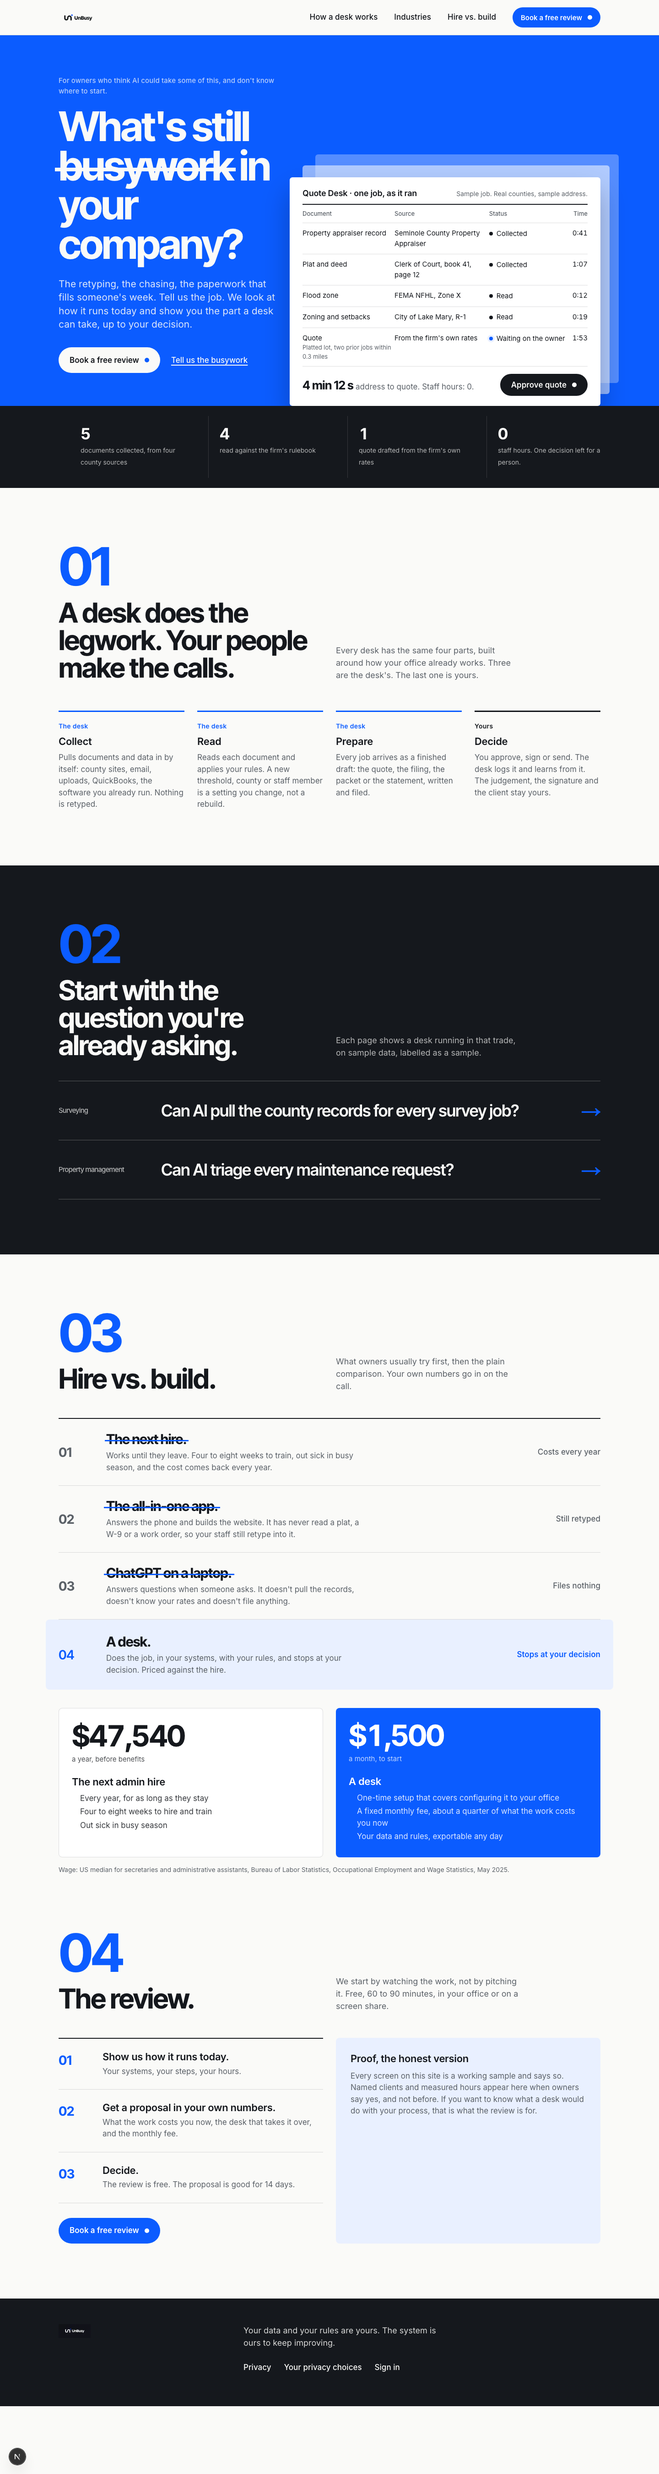
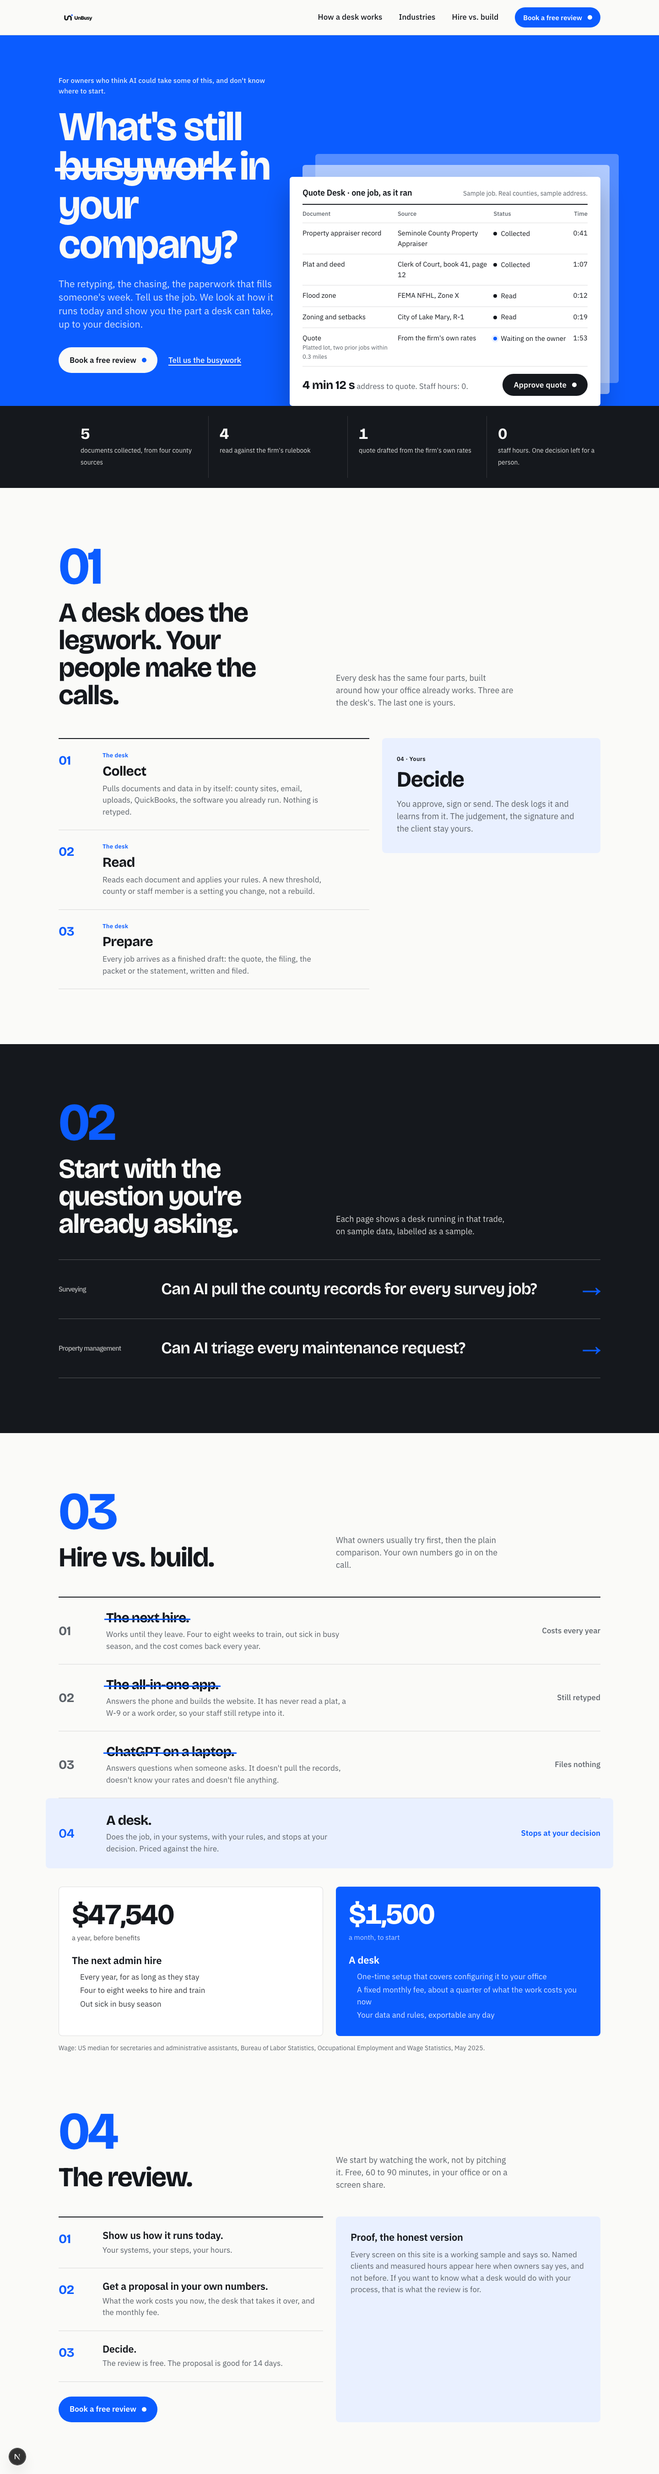
Type, the 3+1 desk layout, and contrast on blue and ink
Bricolage Grotesque for display and IBM Plex Sans for text replace
Inter; "How a desk works" sets the desk's three parts as a ledger with
"Decide" apart on a sky panel; small text on blue and ink goes to 85%+
paper. Mockups and DESIGN.md updated to match.

diff --git a/app/site.css b/app/site.css
@@ -16,7 +16,7 @@
   a { color:inherit; text-decoration:none; }
   .ub p { margin:0; }
   .ub h1, .ub h2, .ub h3 { margin:0; font-family:var(--display); font-weight:700; letter-spacing:-0.03em; }
-  .ub h1 { font-size:clamp(46px,6.2vw,96px); line-height:.96; letter-spacing:-0.04em; }
+  .ub h1 { font-size:clamp(46px,6.2vw,96px); line-height:.96; letter-spacing:-0.025em; font-optical-sizing:auto; }
   .ub h2 { font-size:clamp(34px,4.4vw,60px); line-height:1; }
   .ub h3 { font-size:22px; line-height:1.2; letter-spacing:-0.015em; font-family:var(--body); font-weight:600; }
   .ub .small { font-size:14px; }
@@ -52,7 +52,7 @@
   .ub .hero .grid { align-items:end; }
   .ub .hero .lead { font-size:21px; line-height:1.4; max-width:38ch; margin-top:28px; color:rgba(250,250,248,.88); }
   .ub .hero .actions { display:flex; gap:24px; align-items:center; flex-wrap:wrap; margin:36px 0 72px; }
-  .ub .hero .q { font-weight:500; font-size:15px; letter-spacing:.01em; color:rgba(250,250,248,.72); margin-bottom:24px; }
+  .ub .hero .q { font-weight:500; font-size:15px; letter-spacing:.01em; color:rgba(250,250,248,.92); margin-bottom:24px; }
 
   .ub .stack { position:relative; padding:0 0 0 0; }
   .ub .paper-doc { background:#fff; color:var(--ink); border-radius:6px; box-shadow:0 30px 60px rgba(0,0,0,.25), 0 2px 0 rgba(0,0,0,.08); }
@@ -82,10 +82,10 @@
   .ub .strip div { flex:1 1 160px; padding:22px 24px 22px 0; border-right:1px solid rgba(250,250,248,.14); margin-right:24px; }
   .ub .strip div:last-child { border:0; }
   .ub .strip b { display:block; font-family:var(--display); font-size:34px; font-weight:700; letter-spacing:-0.03em; line-height:1; margin-bottom:6px; }
-  .ub .strip span { font-size:14px; color:rgba(250,250,248,.7); }
+  .ub .strip span { font-size:14px; color:rgba(250,250,248,.88); }
 
   .ub section { padding:120px 0; }
-  .ub .n { font-family:var(--display); font-weight:700; font-size:clamp(64px,8vw,120px); line-height:.9; letter-spacing:-0.05em; color:var(--blue); }
+  .ub .n { font-family:var(--display); font-weight:700; font-size:clamp(64px,8vw,120px); line-height:.9; letter-spacing:-0.04em; color:var(--blue); }
   .ub .sec h2 { margin-top:18px; max-width:14ch; }
   .ub .sec .intro { margin-top:18px; max-width:36ch; color:var(--ink-2); font-size:18px; }
 
@@ -98,11 +98,11 @@
   .ub .part p { margin-top:10px; color:var(--ink-2); }
 
   .ub .dark { background:var(--ink); color:var(--paper); }
-  .ub .dark .intro { color:rgba(250,250,248,.7); }
+  .ub .dark .intro { color:rgba(250,250,248,.85); }
   .ub .qs { border-top:1px solid var(--rule-paper); }
   .ub .qs a { display:grid; grid-template-columns:200px 1fr auto; gap:24px; align-items:center; padding:34px 0; border-bottom:1px solid var(--rule-paper); font-family:var(--display); font-weight:600; font-size:clamp(24px,2.6vw,36px); letter-spacing:-0.025em; transition:padding-left .2s; }
   .ub .qs a:hover { padding-left:12px; }
-  .ub .qs a .t { font:500 15px/1.4 var(--body); color:rgba(250,250,248,.7); }
+  .ub .qs a .t { font:500 15px/1.4 var(--body); color:rgba(250,250,248,.85); }
   .ub .qs a .arrow { color:var(--blue); font-size:40px; font-family:var(--body); }
 
   .ub .ladder { border-top:2px solid var(--ink); }
@@ -154,7 +154,7 @@
 /* inner pages */
 .ub .hero.inner { padding:72px 0 0; }
 .ub .hero.inner h1 { font-size:clamp(40px,5vw,76px); }
-.ub .hero.inner .t { font-weight:500; font-size:15px; color:rgba(250,250,248,.72); margin-bottom:20px; }
+.ub .hero.inner .t { font-weight:500; font-size:15px; color:rgba(250,250,248,.92); margin-bottom:20px; }
 .ub .hero .grid.tight { align-items:end; }
 .ub .hero .pad { padding-bottom:64px; }
 .ub .hero.paper { background:var(--paper); color:var(--ink); padding:88px 0 56px; }
@@ -227,13 +227,13 @@
 .ub .btn:focus-visible { outline-offset:3px; }
 
 /* next/font hands the faces over as variables */
-.ub { --display: var(--font-display), "Inter Tight", "Helvetica Neue", Helvetica, Arial, sans-serif; --body: var(--font-body), Inter, "Helvetica Neue", Helvetica, Arial, sans-serif; }
+.ub { --display: var(--font-display), "Bricolage Grotesque", "Helvetica Neue", Helvetica, Arial, sans-serif; --body: var(--font-body), "IBM Plex Sans", "Helvetica Neue", Helvetica, Arial, sans-serif; }
 
 .ub footer .foot-right { display:flex; justify-content:space-between; gap:28px; flex-wrap:wrap; align-items:start; }
 .ub .source { margin-top:16px; color:var(--ink-2); }
 .ub .review-body { padding-bottom:120px; }
 .ub .q-row { display:grid; grid-template-columns:200px 1fr; gap:24px; align-items:center; padding:34px 0; border-bottom:1px solid var(--rule-paper); font-family:var(--display); font-weight:600; font-size:clamp(22px,2.2vw,30px); letter-spacing:-0.025em; }
-.ub .q-row .t { font:500 15px/1.4 var(--body); color:rgba(250,250,248,.7); }
+.ub .q-row .t { font:500 15px/1.4 var(--body); color:rgba(250,250,248,.85); }
 @media (max-width:980px) { .ub .q-row { grid-template-columns:1fr; gap:8px; } .ub .review-body .side { grid-column:auto !important; } }
 
 /* phones: nothing may force the page wider than the viewport */
@@ -249,3 +249,18 @@
   .ub .ladder .r h3 { font-size:24px; }
   .ub .q-row, .ub .qs a { font-size:20px; }
 }
+
+
+/* How a desk works: the desk's three parts as a ledger, yours set apart */
+.ub .parts-split { display:grid; grid-template-columns:repeat(12,1fr); gap:28px; align-items:start; }
+.ub .ledger-parts { grid-column:1/8; border-top:2px solid var(--ink); }
+.ub .ledger-parts .row { display:grid; grid-template-columns:72px 1fr; gap:24px; padding:26px 0; border-bottom:1px solid var(--rule); }
+.ub .ledger-parts .row .i { font-family:var(--display); font-weight:700; font-size:28px; color:var(--blue); letter-spacing:-0.02em; }
+.ub .ledger-parts .row .k { font-size:13px; font-weight:600; color:var(--blue); letter-spacing:.02em; margin-bottom:6px; }
+.ub .ledger-parts .row h3 { font-family:var(--display); font-size:30px; font-weight:700; letter-spacing:-0.02em; }
+.ub .ledger-parts .row p { margin-top:8px; color:var(--ink-2); max-width:48ch; }
+.ub .yours-panel { grid-column:8/13; background:var(--sky); border-radius:8px; padding:36px 32px 40px; position:sticky; top:104px; }
+.ub .yours-panel .k { font-size:13px; font-weight:600; color:var(--ink); letter-spacing:.02em; }
+.ub .yours-panel h3 { font-family:var(--display); font-size:clamp(34px,3.6vw,48px); font-weight:700; letter-spacing:-0.025em; margin-top:10px; line-height:1; }
+.ub .yours-panel p { margin-top:16px; color:var(--ink-2); font-size:18px; }
+@media (max-width:980px) { .ub .parts-split { grid-template-columns:1fr; } .ub .ledger-parts, .ub .yours-panel { grid-column:auto; } .ub .yours-panel { position:static; } }

diff --git a/docs/brand/site-concept/site.css b/docs/brand/site-concept/site.css
@@ -2,16 +2,16 @@
     --ink:#15181D; --ink-2:#5B6168; --paper:#FAFAF8; --paper-2:#F1F1EE;
     --blue:#0B5CFF; --blue-deep:#0845C2; --sky:#E9F0FF; --sky-2:#D6E3FF;
     --rule:rgba(21,24,29,.14); --rule-paper:rgba(250,250,248,.28);
-    --display:"Inter Tight","Helvetica Neue",Helvetica,Arial,sans-serif;
-    --body:Inter,"Helvetica Neue",Helvetica,Arial,sans-serif;
+    --display:"Bricolage Grotesque","Helvetica Neue",Helvetica,Arial,sans-serif;
+    --body:"IBM Plex Sans","Helvetica Neue",Helvetica,Arial,sans-serif;
   }
   * { box-sizing:border-box; }
   html { scroll-behavior:smooth; }
   body { margin:0; background:var(--paper); color:var(--ink); font:400 17px/1.5 var(--body); -webkit-font-smoothing:antialiased; }
   a { color:inherit; text-decoration:none; }
   p { margin:0; }
-  h1,h2,h3 { margin:0; font-family:var(--display); font-weight:700; letter-spacing:-0.03em; }
-  h1 { font-size:clamp(46px,6.2vw,96px); line-height:.96; letter-spacing:-0.04em; }
+  h1,h2,h3 { margin:0; font-family:var(--display); font-weight:700; letter-spacing:-0.02em; }
+  h1 { font-size:clamp(46px,6.2vw,96px); line-height:.96; letter-spacing:-0.025em; font-optical-sizing:auto; }
   h2 { font-size:clamp(34px,4.4vw,60px); line-height:1; }
   h3 { font-size:22px; line-height:1.2; letter-spacing:-0.015em; font-family:var(--body); font-weight:600; }
   .small { font-size:14px; }
@@ -47,7 +47,7 @@
   .hero .grid { align-items:end; }
   .hero .lead { font-size:21px; line-height:1.4; max-width:38ch; margin-top:28px; color:rgba(250,250,248,.88); }
   .hero .actions { display:flex; gap:24px; align-items:center; flex-wrap:wrap; margin:36px 0 72px; }
-  .hero .q { font-weight:500; font-size:15px; letter-spacing:.01em; color:rgba(250,250,248,.72); margin-bottom:24px; }
+  .hero .q { font-weight:500; font-size:15px; letter-spacing:.01em; color:rgba(250,250,248,.92); margin-bottom:24px; }
 
   .stack { position:relative; padding:0 0 0 0; }
   .paper-doc { background:#fff; color:var(--ink); border-radius:6px; box-shadow:0 30px 60px rgba(0,0,0,.25), 0 2px 0 rgba(0,0,0,.08); }
@@ -77,10 +77,10 @@
   .strip div { flex:1 1 160px; padding:22px 24px 22px 0; border-right:1px solid rgba(250,250,248,.14); margin-right:24px; }
   .strip div:last-child { border:0; }
   .strip b { display:block; font-family:var(--display); font-size:34px; font-weight:700; letter-spacing:-0.03em; line-height:1; margin-bottom:6px; }
-  .strip span { font-size:14px; color:rgba(250,250,248,.7); }
+  .strip span { font-size:14px; color:rgba(250,250,248,.88); }
 
   section { padding:120px 0; }
-  .n { font-family:var(--display); font-weight:700; font-size:clamp(64px,8vw,120px); line-height:.9; letter-spacing:-0.05em; color:var(--blue); }
+  .n { font-family:var(--display); font-weight:700; font-size:clamp(64px,8vw,120px); line-height:.9; letter-spacing:-0.04em; color:var(--blue); }
   .sec h2 { margin-top:18px; max-width:14ch; }
   .sec .intro { margin-top:18px; max-width:36ch; color:var(--ink-2); font-size:18px; }
 
@@ -93,11 +93,11 @@
   .part p { margin-top:10px; color:var(--ink-2); }
 
   .dark { background:var(--ink); color:var(--paper); }
-  .dark .intro { color:rgba(250,250,248,.7); }
+  .dark .intro { color:rgba(250,250,248,.85); }
   .qs { border-top:1px solid var(--rule-paper); }
   .qs a { display:grid; grid-template-columns:200px 1fr auto; gap:24px; align-items:center; padding:34px 0; border-bottom:1px solid var(--rule-paper); font-family:var(--display); font-weight:600; font-size:clamp(24px,2.6vw,36px); letter-spacing:-0.025em; transition:padding-left .2s; }
   .qs a:hover { padding-left:12px; }
-  .qs a .t { font:500 15px/1.4 var(--body); color:rgba(250,250,248,.7); }
+  .qs a .t { font:500 15px/1.4 var(--body); color:rgba(250,250,248,.85); }
   .qs a .arrow { color:var(--blue); font-size:40px; font-family:var(--body); }
 
   .ladder { border-top:2px solid var(--ink); }
@@ -149,7 +149,7 @@
 /* inner pages */
 .hero.inner { padding:72px 0 0; }
 .hero.inner h1 { font-size:clamp(40px,5vw,76px); }
-.hero.inner .t { font-weight:500; font-size:15px; color:rgba(250,250,248,.72); margin-bottom:20px; }
+.hero.inner .t { font-weight:500; font-size:15px; color:rgba(250,250,248,.92); margin-bottom:20px; }
 .hero .grid.tight { align-items:end; }
 .hero .pad { padding-bottom:64px; }
 .hero.paper { background:var(--paper); color:var(--ink); padding:88px 0 56px; }
@@ -189,3 +189,17 @@ fieldset { border:0; margin:0; padding:0; }
 @media (max-width:980px) { .stops { grid-template-columns:1fr; } }
 @media (max-width:600px) { .two { grid-template-columns:1fr; gap:0; } }
 
+
+/* How a desk works: the desk's three parts as a ledger, yours set apart */
+.parts-split { display:grid; grid-template-columns:repeat(12,1fr); gap:28px; align-items:start; }
+.ledger-parts { grid-column:1/8; border-top:2px solid var(--ink); }
+.ledger-parts .row { display:grid; grid-template-columns:72px 1fr; gap:24px; padding:26px 0; border-bottom:1px solid var(--rule); }
+.ledger-parts .row .i { font-family:var(--display); font-weight:700; font-size:28px; color:var(--blue); letter-spacing:-0.02em; }
+.ledger-parts .row .k { font-size:13px; font-weight:600; color:var(--blue); letter-spacing:.02em; margin-bottom:6px; }
+.ledger-parts .row h3 { font-family:var(--display); font-size:30px; font-weight:700; letter-spacing:-0.02em; }
+.ledger-parts .row p { margin-top:8px; color:var(--ink-2); max-width:48ch; }
+.yours-panel { grid-column:8/13; background:var(--sky); border-radius:8px; padding:36px 32px 40px; position:sticky; top:104px; }
+.yours-panel .k { font-size:13px; font-weight:600; color:var(--ink); letter-spacing:.02em; }
+.yours-panel h3 { font-family:var(--display); font-size:clamp(34px,3.6vw,48px); font-weight:700; letter-spacing:-0.025em; margin-top:10px; line-height:1; }
+.yours-panel p { margin-top:16px; color:var(--ink-2); font-size:18px; }
+@media (max-width:980px) { .parts-split { grid-template-columns:1fr; } .ledger-parts, .yours-panel { grid-column:auto; } .yours-panel { position:static; } }

diff --git a/docs/brand/site-concept/index.html b/docs/brand/site-concept/index.html
@@ -5,7 +5,7 @@
 <meta name="viewport" content="width=device-width, initial-scale=1">
 <title>UnBusy — Get the busywork off your team</title>
 <link rel="preconnect" href="https://fonts.googleapis.com">
-<link href="https://fonts.googleapis.com/css2?family=Inter+Tight:wght@500;600;700&family=Inter:wght@400;500;600&display=swap" rel="stylesheet">
+<link href="https://fonts.googleapis.com/css2?family=Bricolage+Grotesque:opsz,wght@12..96,500..800&family=IBM+Plex+Sans:wght@400;500;600&display=swap" rel="stylesheet">
 <link rel="stylesheet" href="site.css">
 </head>
 <body>
@@ -62,11 +62,13 @@
       <div class="c1-6"><div class="n">01</div><h2>A desk does the legwork. Your people make the calls.</h2></div>
       <div class="c7-12" style="align-self:end"><p class="intro">Every desk has the same four parts, built around how your office already works. Three are the desk's. The last one is yours.</p></div>
     </div>
-    <div class="parts">
-      <div class="part"><div class="k">The desk</div><h3>Collect</h3><p>Pulls documents and data in by itself: county sites, email, uploads, QuickBooks, the software you already run. Nothing is retyped.</p></div>
-      <div class="part"><div class="k">The desk</div><h3>Read</h3><p>Reads each document and applies your rules. A new threshold, county or staff member is a setting you change, not a rebuild.</p></div>
-      <div class="part"><div class="k">The desk</div><h3>Prepare</h3><p>Every job arrives as a finished draft: the quote, the filing, the packet or the statement, written and filed.</p></div>
-      <div class="part yours"><div class="k">Yours</div><h3>Decide</h3><p>You approve, sign or send. The desk logs it and learns from it. The judgement, the signature and the client stay yours.</p></div>
+    <div class="parts-split">
+      <div class="ledger-parts">
+        <div class="row"><div class="i">01</div><div><div class="k">The desk</div><h3>Collect</h3><p>Pulls documents and data in by itself: county sites, email, uploads, QuickBooks, the software you already run. Nothing is retyped.</p></div></div>
+        <div class="row"><div class="i">02</div><div><div class="k">The desk</div><h3>Read</h3><p>Reads each document and applies your rules. A new threshold, county or staff member is a setting you change, not a rebuild.</p></div></div>
+        <div class="row"><div class="i">03</div><div><div class="k">The desk</div><h3>Prepare</h3><p>Every job arrives as a finished draft: the quote, the filing, the packet or the statement, written and filed.</p></div></div>
+      </div>
+      <div class="yours-panel"><div class="k">04 · Yours</div><h3>Decide</h3><p>You approve, sign or send. The desk logs it and learns from it. The judgement, the signature and the client stay yours.</p></div>
     </div>
   </div></section>
 

diff --git a/app/page.tsx b/app/page.tsx
@@ -44,10 +44,23 @@ export default function Home() {
         <section id="how">
           <div className="wrap">
             <SectionHead n={how.n} title={how.title} intro={how.intro} gap={64} />
-            <div className="parts">
-              {how.parts.map((part) => (
-                <div className={"yours" in part && part.yours ? "part yours" : "part"} key={part.title}>
-                  <div className="k">{part.who}</div>
+            {/* Three parts are the desk's, set as a ledger; the fourth is yours, set apart. */}
+            <div className="parts-split">
+              <div className="ledger-parts">
+                {how.parts.filter((part) => !("yours" in part && part.yours)).map((part, i) => (
+                  <div className="row" key={part.title}>
+                    <div className="i">{String(i + 1).padStart(2, "0")}</div>
+                    <div>
+                      <div className="k">{part.who}</div>
+                      <h3>{part.title}</h3>
+                      <p>{part.body}</p>
+                    </div>
+                  </div>
+                ))}
+              </div>
+              {how.parts.filter((part) => "yours" in part && part.yours).map((part) => (
+                <div className="yours-panel" key={part.title}>
+                  <div className="k">04 · {part.who}</div>
                   <h3>{part.title}</h3>
                   <p>{part.body}</p>
                 </div>

diff --git a/app/layout.tsx b/app/layout.tsx
@@ -1,5 +1,5 @@
 import type { Metadata, Viewport } from "next";
-import { Geist, Geist_Mono, Instrument_Serif, Inter, Inter_Tight } from "next/font/google";
+import { Bricolage_Grotesque, Geist, Geist_Mono, IBM_Plex_Sans, Instrument_Serif } from "next/font/google";
 import Script from "next/script";
 import { GoogleAnalytics } from "@next/third-parties/google";
 import { Analytics } from "@vercel/analytics/next";
@@ -14,8 +14,11 @@ import "./globals.css";
 import "./site.css";
 
 /* The site's two faces. */
-const display = Inter_Tight({ subsets: ["latin"], weight: ["500", "600", "700"], variable: "--font-display", display: "swap" });
-const body = Inter({ subsets: ["latin"], weight: ["400", "500", "600"], variable: "--font-body", display: "swap" });
+/* Bricolage's optical-size axis gives the 96px headline its own cut while
+   the small sizes stay plain; Plex Sans reads like a document and has true
+   tabular figures for the sheet. */
+const display = Bricolage_Grotesque({ subsets: ["latin"], weight: "variable", axes: ["opsz", "wdth"], variable: "--font-display", display: "swap" });
+const body = IBM_Plex_Sans({ subsets: ["latin"], weight: ["400", "500", "600"], variable: "--font-body", display: "swap" });
 
 /* The concept pages under app/concepts still set type in these. */
 const sans = Geist({ subsets: ["latin"], variable: "--font-geist", display: "swap" });

diff --git a/docs/brand/site-concept/surveying.html b/docs/brand/site-concept/surveying.html
@@ -5,7 +5,7 @@
 <meta name="viewport" content="width=device-width, initial-scale=1">
 <title>Can AI pull the county records for every survey job? — UnBusy</title>
 <link rel="preconnect" href="https://fonts.googleapis.com">
-<link href="https://fonts.googleapis.com/css2?family=Inter+Tight:wght@500;600;700&family=Inter:wght@400;500;600&display=swap" rel="stylesheet">
+<link href="https://fonts.googleapis.com/css2?family=Bricolage+Grotesque:opsz,wght@12..96,500..800&family=IBM+Plex+Sans:wght@400;500;600&display=swap" rel="stylesheet">
 <link rel="stylesheet" href="site.css">
 </head>
 <body>

diff --git a/docs/brand/site-concept/review.html b/docs/brand/site-concept/review.html
@@ -5,7 +5,7 @@
 <meta name="viewport" content="width=device-width, initial-scale=1">
 <title>Book a free operations review — UnBusy</title>
 <link rel="preconnect" href="https://fonts.googleapis.com">
-<link href="https://fonts.googleapis.com/css2?family=Inter+Tight:wght@500;600;700&family=Inter:wght@400;500;600&display=swap" rel="stylesheet">
+<link href="https://fonts.googleapis.com/css2?family=Bricolage+Grotesque:opsz,wght@12..96,500..800&family=IBM+Plex+Sans:wght@400;500;600&display=swap" rel="stylesheet">
 <link rel="stylesheet" href="site.css">
 </head>
 <body>

diff --git a/docs/brand/site-concept/DESIGN.md b/docs/brand/site-concept/DESIGN.md
@@ -20,18 +20,18 @@ Atmosphere words: confident, plain, quick, operator, blue.
 --rule:rgba(21,24,29,.14); --rule-paper:rgba(250,250,248,.28);
 ```
 
-Roles. Blue: the homepage and industry heroes, every primary button, the section numerals, the strike, the desk's price card. Ink: text, the stats strip, the one dark band per page (Industries on the home page, Where it stops on industry pages), the footer. Paper: everything else. Sky: the one highlighted row or panel per section. No fourth colour. Status is a word with a dot before it: ink dot done, blue dot (with a sky halo) waiting on a person.
+Roles. Blue: the homepage and industry heroes, every primary button, the section numerals, the strike, the desk's price card. Text on blue or ink is paper at 85% or more (AA at 15px). Ink: text, the stats strip, the one dark band per page (Industries on the home page, Where it stops on industry pages), the footer. Paper: everything else. Sky: the one highlighted row or panel per section. No fourth colour. Status is a word with a dot before it: ink dot done, blue dot (with a sky halo) waiting on a person.
 
 ## 3. Type
 
-Inter Tight 700 for display, Inter 400/500/600 for text, via `next/font/google` (`--font-display`, `--font-body`).
+Bricolage Grotesque (variable, optical size and width axes) at 700 for display; IBM Plex Sans 400/500/600 for text; via `next/font/google` (`--font-display`, `--font-body`). Chosen 2026-10-27 after the distinctive-frontend review flagged Inter as the one thing that still let the page read as generic: Bricolage's large optical size gives the headline its own cut, Plex reads like a document and has true tabular figures.
 
 | Level | Size | Weight | Tracking | Use |
 | --- | --- | --- | --- | --- |
-| H1 | clamp(46px, 6.2vw, 96px) | 700 | -0.04em, line-height .96 | Hero. Inner pages clamp(40px, 5vw, 76px) |
-| Numeral | clamp(64px, 8vw, 120px) | 700 | -0.05em, blue | 01–04 at the head of each section |
+| H1 | clamp(46px, 6.2vw, 96px) | 700 | -0.025em, line-height .96 | Hero. Inner pages clamp(40px, 5vw, 76px) |
+| Numeral | clamp(64px, 8vw, 120px) | 700 | -0.04em, blue | 01–04 at the head of each section |
 | H2 | clamp(34px, 4.4vw, 60px) | 700 | -0.03em | Section titles |
-| H3 | 22px | 600 (Inter) | -0.015em | Row and part titles |
+| H3 | 22px | 600 (Plex) | -0.015em | Row and list titles |
 | Lead | 21–22px | 400 | 0 | Hero paragraph |
 | Body | 17px | 400 | 0 | Everything else |
 | Small | 14–15px | 400/500 | 0 | Eyebrows, sources, notices |
@@ -46,7 +46,7 @@ Tabular figures (`tnum`) on anything numeric. No monospace, no uppercase trackin
 - **The sheet.** A white document (`.paper-doc`: 6px radius, one deep soft shadow) with two translucent sheets stacked behind it. Caption, four-column table (Document, Source, Status, Time), a foot line with the total and an ink button. On the blue hero it sits in columns 6–12. Rows fade up one by one on load, 600ms apart, the foot last; reduced-motion shows it finished.
 - **The strip.** Ink band, four numbers with one-line labels. Only the sample job's own figures; never a counter.
 - **Section head.** Blue numeral, H2 in columns 1–6, intro bottom-aligned in 7–12.
-- **Parts.** Four columns, 3px top border (blue for the desk's three, ink for "Yours"), a small label, H3, body.
+- **How a desk works.** The desk's three parts as a numbered ledger in columns 1–7 (blue numerals, small blue "The desk" label, 30px titles); "Decide" alone in columns 8–12 on a sticky sky panel with a 34–48px title. The layout says what the copy says: three are the desk's, one is yours.
 - **Question rows (`.qs`).** On the dark band: trade in small text, the question at 24–36px, a blue arrow; the row shifts right 12px on hover.
 - **The ladder.** Numbered rows with a right-hand status word; the first three struck; the fourth, "A desk.", on a sky row with blue numeral and tag.
 - **Figures.** Two cards: paper with a hairline for the hire, blue for the desk. Amount at up to 64px.
